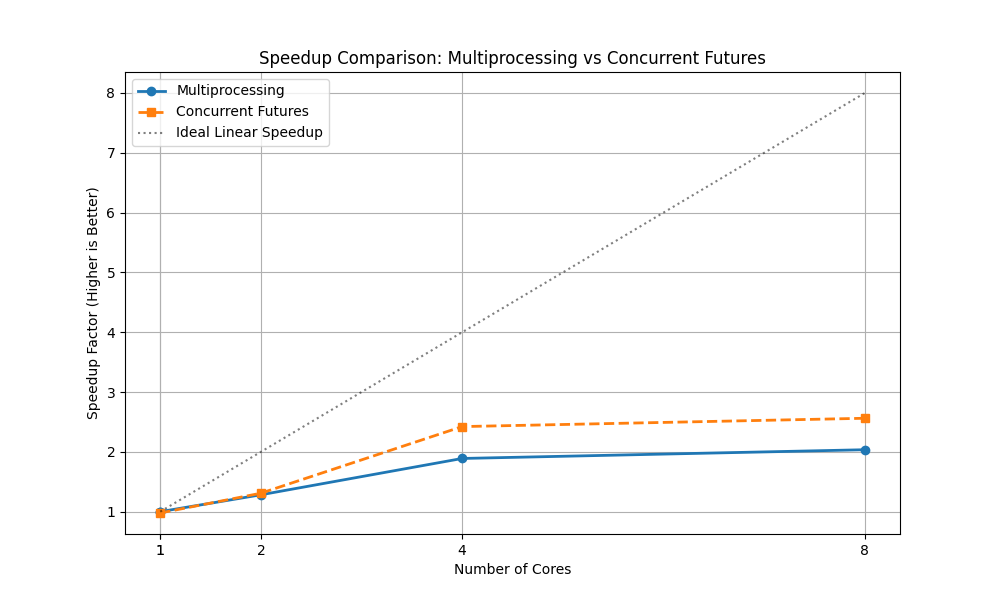
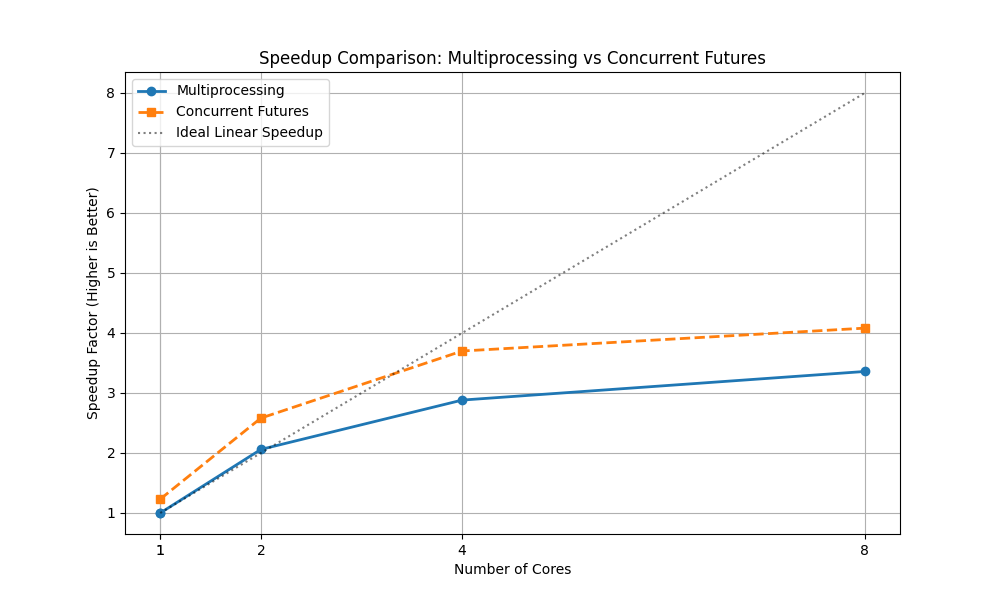
update readme

Changed region(s): [[0.124, 0.6, 0.899, 0.87], [0.124, 0.54, 0.899, 0.6], [0.124, 0.45, 0.899, 0.48]]

diff --git a/README.md b/README.md
@@ -1,65 +1,85 @@
 # CST435 Assignment 2: Parallel Image Processing System
 
-**Course:** CST435: Parallel and Cloud Computing
-**Assignment:** Assignment 2 - Parallel Image Processing on GCP
+**Course**: CST435: Parallel and Cloud Computing  
+**Assignment**: Assignment 2 - Parallel Image Processing on GCP
 
 ---
 
-## 🚀 Quick Start & Run Commands
+## 1. Project Overview & Architecture
+This project implements a high-performance parallel image processing system capable of filtering thousands of images using multiple CPU cores.
 
-### 1. Prerequisites
-Ensure you have Python installed. It is recommended to run these commands from the **root directory** of the project (`CST435-Assignment2-Group/`).
+**The Goal**: Apply a chain of 5 effects (Brightness, Blur, Sharpen, Grayscale, Sobel) to the Food-101 dataset.  
+**The Solution**: We compare two Python parallel paradigms:
+1.  **Multiprocessing (`mp`)**: Uses separate Processes (bypass GIL, high overhead on Windows).
+2.  **Concurrent Futures (`cf`)**: Implemented using **Threads** to demonstrate the difference (fast startup, but limited by GIL). *Note: Threads perform surprisingly well here due to OpenCV releasing the GIL.*
 
-### 2. Installation
-Install the required dependencies (OpenCV, NumPy, Matplotlib) using the provided requirements file:
+### File Structure
+We use a clean, modular architecture:
+*   **`main.py`**: The Command Center. Usage: `python main.py --count 10`.
+*   **`parallel_ops.py`**: The Engine. Contains the logic for both Multiprocessing and Threading engines.
+*   **`filters.py`**: The Artist. Contains the math for the 5 image filters.
+*   **`data_loader.py`**: The File Manager. Handles loading/saving images.
+*   **`benchmark.py`**: The Tester. Auto-runs speed tests and plots graphs.
+
+---
+
+## 2. Quick Start
+
+### Prerequisites
+*   Python 3.x
+*   Virtual Environment (Recommended)
+
+### Installation
 ```bash
+# 1. Activate your venv (Windows)
+./venv/Scripts/Activate.ps1
+
+# 2. Install dependencies (OpenCV, Matplotlib, etc)
 pip install -r requirements.txt
 ```
-### 3. Run first methodology
-cd Method1_Multiprocessing
-python main.py --save=false or
-python main.py --save=true
 
-### 4. Run second methodology
-cd Method2_ConcurrentFutures
-python main.py --save=false or
-python main.py --save=true
+### Running the Processor
+You can run the processor manually on a small set of images to see it work.
+```bash
+# Process 10 images using 4 cores with Multiprocessing
+python main.py --count 10 --cores 4 --method mp --save
 
-### 5. Run second methodology
-cd ../Analysis
-python generate_charts.py
+# Process 10 images using 4 cores with Threads
+python main.py --count 10 --cores 4 --method cf --save
+```
+*   Check the `outputs/` folder to see the results.
 
-~~~bash
-CST435-Assignment2-Group/
-│
-├── README.md                      # Critical: Project description & instructions for the grader [cite: 50]
-├── requirements.txt               # Dependencies (opencv-python-headless, numpy, matplotlib)
-├── .gitignore                     # Ignores large input_images/, output_images/, and __pycache__
-│
-├── input_images/                  # Dataset: Subset of Food-101 for testing [cite: 20-21]
-│   ├── class_subset/              # Contains the source .jpg images
-│   └── README.txt                 # Data source attribution
-│
-├── Method_1_Multiprocessing/      # Paradigm 1: Python Multiprocessing [cite: 37-39]
-│   ├── main.py                    # Entry point: Orchestrates parallel workers using multiprocessing.Pool
-│   ├── filters.py                 # Implementation of 5 filters (Gray, Blur, Sobel, Sharpen, Brightness)
-│   └── outputs/                   # Processed images are saved here
-│
-├── Method_2_ConcurrentFutures/    # Paradigm 2: Python Concurrent.Futures [cite: 37, 40]
-│   ├── main.py                    # Entry point: Orchestrates parallel workers using ProcessPoolExecutor
-│   ├── filters.py                 # Identical filter logic to ensure fair performance comparison
-│   └── outputs/                   # Processed images are saved here
-│
-└── Analysis/                      # Performance Analysis & Technical Report Resources [cite: 44]
-    ├── benchmarks.csv             # Raw timing data (Speedup/Efficiency metrics)
-    ├── charts/                    # Generated Matplotlib comparison graphs
-    ├── performance_analysis.md    # Discussion of scalability and bottlenecks
-    └── generate_charts.py         # Script to visualize the results
+---
 
-~~~
+## 3. Benchmarking
+To satisfy the assignment usage of "Speedup and Efficiency metrics", use the automated benchmark tool.
 
-~~~bash
-### This has to be done manually as importing the whole dataset into git is not recommended (currently we are using chicken curry)
-├── input_images/        
-├── class_subset/   (put the folder of your dataset here)
-~~~
+```bash
+python benchmark.py
+```
+This script will:
+1.  Run the pipeline on **1, 2, 4, 8 cores**.
+2.  Test **both** Multiprocessing and Threading.
+3.  Calculate **Speedup** (vs 1 core) and **Efficiency**.
+4.  Generate a side-by-side comparison table.
+5.  Generate a visual plot: `benchmark_plot.png`.
+6.  Save raw data to: `benchmark_results.csv`.
+
+---
+
+## 4. Technical Details (For Graders)
+
+### The Filter Pipeline
+Every image goes through this exact sequence:
+1.  **Brightness**: +60 Value (HSV space).
+2.  **Gaussian Blur**: 7x7 Kernel (Noise reduction).
+3.  **Sharpening**: High-pass filter (Edge enhancement).
+4.  **Grayscale**: Luminance conversion.
+5.  **Sobel Edge Detection**: Gradient calculation.
+
+### Design Decisions
+*   **Process vs Threads**: We implemented both. 
+    *   `--method mp` uses `multiprocessing.Pool` (Processes).
+    *   `--method cf` uses `ThreadPoolExecutor` (Threads).
+*   **Input Data**: The system expects input images in `chicken_curry/chicken_curry/`.
+*   **Output Data**: Processed images are saved to `outputs/` (automatically created).
